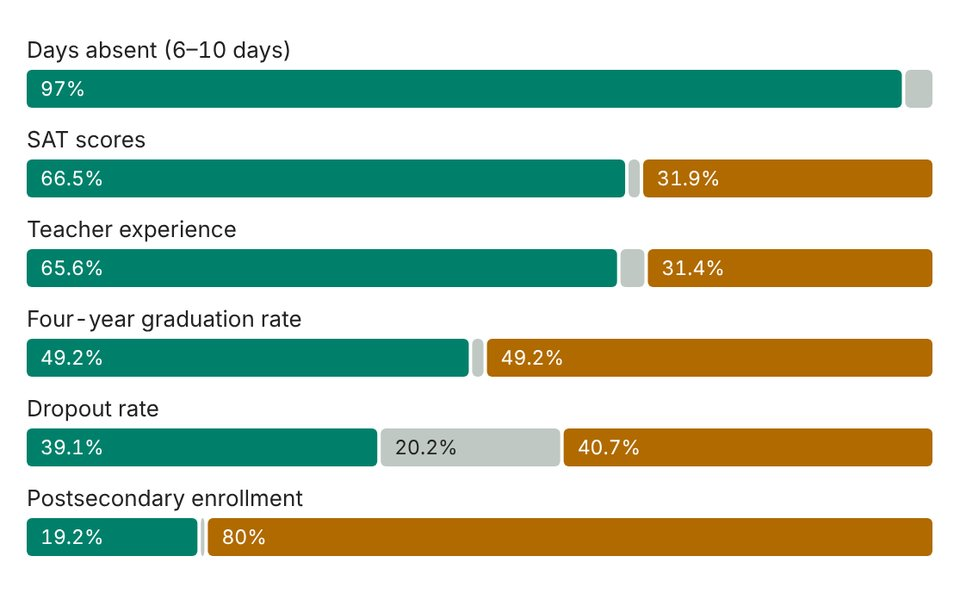
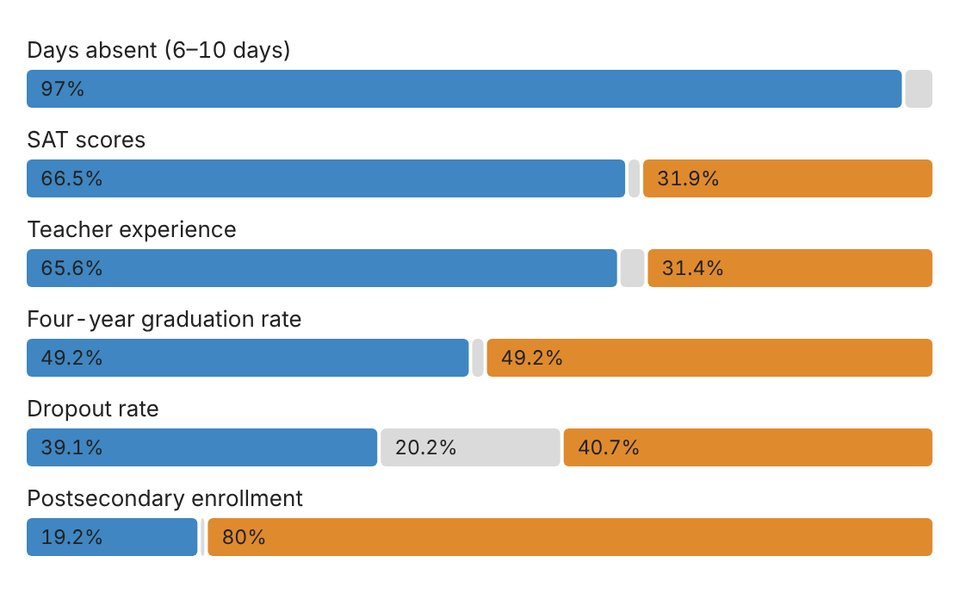
Use a natural, varied color palette for the NJ schools charts

diff --git a/nj-schools/index.html b/nj-schools/index.html
@@ -10,7 +10,10 @@
 /* Layout: single reading column (~680px) with charts breaking slightly wider; same identity as the portfolio */
 :root {
   --paper: #ffffff; --surface: #ffffff; --ink: #222222; --muted: #666666; --line: #e2e2e2; --accent: #1d4f91;
-  --up: #00806A; --flat: #BFC8C3; --down: #B06A00; --up-soft: #DCEBE6; --down-soft: #F3E6CF;
+  --up: #2A62A6; --flat: #CFCFCF; --down: #B5462E;
+  --m-up: #3F86C2; --m-flat: #DADADA; --m-down: #E08A2E;
+  --g-up: #2D8A6E; --g-down: #C7533D;
+  --s-up: #5577C4; --s-down: #C99A1E;
   --display: Georgia, "Times New Roman", serif;
   --body: -apple-system, BlinkMacSystemFont, "Segoe UI", Roboto, "Helvetica Neue", Arial, sans-serif;
   --mono: var(--body);
@@ -43,6 +46,7 @@ section { padding-block: 32px; }
 .legend li { display: flex; align-items: center; gap: 7px; }
 .sw { width: 12px; height: 12px; border-radius: 3px; flex: none; }
 .sw.up { background: var(--up); } .sw.flat { background: var(--flat); } .sw.down { background: var(--down); }
+.sw.m-up { background: var(--m-up); } .sw.m-flat { background: var(--m-flat); } .sw.m-down { background: var(--m-down); }
 
 /* Split bar */
 .splitbar { display: flex; gap: 3px; height: 56px; margin: 8px 0 18px; }
@@ -83,6 +87,7 @@ th { font-family: var(--mono); font-weight: 500; font-size: 11.5px;   color: var
 .district dt { color: var(--muted); } .district dd { margin: 0; font-variant-numeric: tabular-nums; font-weight: 600; text-align: right; }
 .bar { height: 6px; border-radius: 3px; background: var(--line); grid-column: 1 / -1; margin-top: -2px; overflow: hidden; }
 .bar span { display: block; height: 100%; border-radius: 3px; background: var(--muted); }
+#sb .bar span { background: #5B7FA6; } #tr .bar span { background: #B9893A; }
 blockquote { margin: 26px 0; padding: 0 0 0 20px; border-left: 2px solid var(--accent); font-family: var(--display); font-size: 22px; line-height: 1.4; }
 blockquote cite { display: block; margin-top: 8px; font-family: var(--mono); font-style: normal; font-size: 12px; color: var(--muted);  }
 .method { border-top: 1px solid var(--line); margin-top: 24px; padding-top: 28px; font-size: 15px; color: var(--muted); }
@@ -144,7 +149,7 @@ footer .col { padding-block: 28px 48px; font-family: var(--mono); font-size: 12p
     <div class="col wide">
       <div class="fig">
         <p class="fig-title">Share of districts that improved, held steady, or declined, by measure</p>
-        <ul class="legend"><li><span class="sw up"></span>Improved</li><li><span class="sw flat"></span>No change</li><li><span class="sw down"></span>Declined</li></ul>
+        <ul class="legend"><li><span class="sw m-up"></span>Improved</li><li><span class="sw m-flat"></span>No change</li><li><span class="sw m-down"></span>Declined</li></ul>
         <div id="measures"></div>
         <details>
           <summary>Show as table</summary>
@@ -268,9 +273,9 @@ footer .col { padding-block: 28px 48px; font-family: var(--mono); font-size: 12p
       var x = labW;
       segs.forEach(function (sg, j) {
         var w = sg[1] / n * bw, gap = j < segs.length - 1 ? 2 : 0;
-        var r = s("rect", { x: x, y: y, width: Math.max(0, w - gap), height: barH, rx: 3, fill: "var(--" + sg[0] + ")" }, svg);
+        var r = s("rect", { x: x, y: y, width: Math.max(0, w - gap), height: barH, rx: 3, fill: "var(--m-" + sg[0] + ")" }, svg);
         var p = d.other != null ? sg[1] : pct(sg[1], n);
-        if (w > 44) txt(svg, x + 8, y + barH / 2 + 4, p + "%", "val " + (sg[0] === "flat" ? "" : "inv"));
+        if (w > 44) txt(svg, x + 8, y + barH / 2 + 4, p + "%", "val");
         var hit = s("rect", { x: x, y: y - 6, width: Math.max(w, 1), height: barH + 12, "class": "hit", tabindex: 0 }, svg);
         bindTip(hit, "<b>" + d.m + "</b><br>" + sg[2] + (d.other != null ? "" : "<br>" + p + "% of " + n + " districts"));
         x += w;
@@ -310,7 +315,7 @@ footer .col { padding-block: 28px 48px; font-family: var(--mono); font-size: 12p
       if (narrow) txt(svg, d[1] > 0 ? zero - 4 : zero + 4, y0 + 14, d[0], "lab", d[1] > 0 ? "end" : "start");
       else txt(svg, 0, y + barH / 2 + 4.5, d[0], "lab");
       var w = Math.abs(d[1]) * sc, x = d[1] > 0 ? zero : zero - w;
-      s("rect", { x: x, y: y, width: w, height: barH, rx: 3, fill: d[1] > 0 ? "var(--up)" : "var(--down)" }, svg);
+      s("rect", { x: x, y: y, width: w, height: barH, rx: 3, fill: d[1] > 0 ? "var(--g-up)" : "var(--g-down)" }, svg);
       txt(svg, d[1] > 0 ? zero + w + 6 : zero - w - 6, y + barH / 2 + 4, (d[1] > 0 ? "+" : "") + d[1].toFixed(1), "val", d[1] > 0 ? "start" : "end");
       var hit = s("rect", { x: plotL, y: y0, width: plotW, height: rowH, "class": "hit", tabindex: 0 }, svg);
       bindTip(hit, "<b>" + d[0] + "</b><br>" + (d[1] > 0 ? "+" : "") + d[1].toFixed(1) + " percentage points");
@@ -340,7 +345,7 @@ footer .col { padding-block: 28px 48px; font-family: var(--mono); font-size: 12p
     [0, 25, 50].forEach(function (t) { s("line", { x1: x0 - 8, x2: x1 + 8, y1: y(t), y2: y(t), stroke: "var(--line)" }, svg); txt(svg, x0 - 14, y(t) + 4, t, "val muted", "end"); });
     txt(svg, x0, H - 10, "2018–19", "val muted", "middle"); txt(svg, x1, H - 10, "2020–21", "val muted", "middle");
     A.forEach(function (d) {
-      var c = "var(--" + d[3] + ")";
+      var c = "var(--s-" + d[3] + ")";
       s("line", { x1: x0, y1: y(d[1]), x2: x1, y2: y(d[2]), stroke: c, "stroke-width": 2 }, svg);
       [[x0, d[1]], [x1, d[2]]].forEach(function (p) { s("circle", { cx: p[0], cy: y(p[1]), r: 5, fill: c, stroke: "var(--surface)", "stroke-width": 2 }, svg); });
       txt(svg, x1 + 12, y(d[2]) + 4, d[0], "lab");
